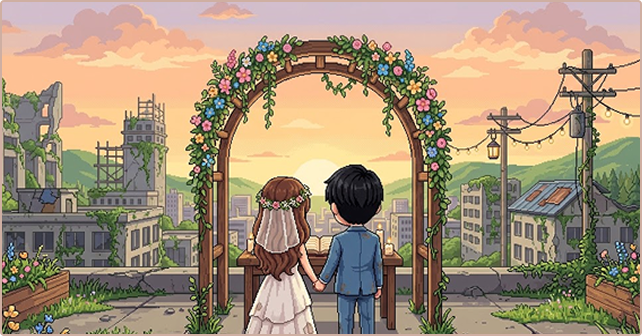
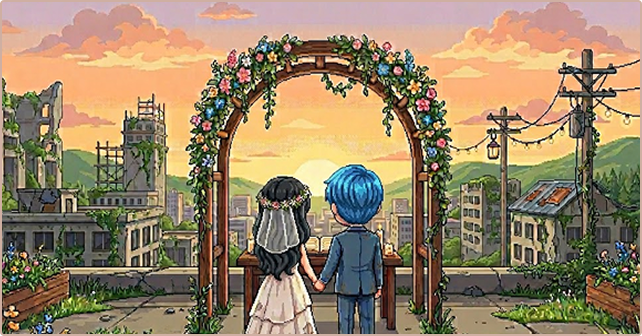
kapuya napls

diff --git a/src/menu/MenuButtonHandler.java b/src/menu/MenuButtonHandler.java
@@ -40,8 +40,7 @@ public class MenuButtonHandler implements ActionListener {
 
     @Override
     public void actionPerformed(ActionEvent e){
-        MusicManager.loadAllBGM();  // ← add this
-        MusicManager.loadAllSFX();
+
         MusicManager.playSFX(MusicManager.BTN_CLICK);
 
         String command = e.getActionCommand();
@@ -83,54 +82,56 @@ public class MenuButtonHandler implements ActionListener {
 
         if(command.equals("New Game")){
             gamePanel.removeAll();
-            gamePanel.setLayout(new BorderLayout());
+
             MusicManager.playBGM(MusicManager.BGM_STORYLINE);
+
+            gamePanel.setLayout(new BorderLayout());
 
             // ==========================================
             // 🛠 TEST MODE: 3 CHARACTERS BAD ENDING
             // ==========================================
-
-            Player testPlayer = new Player("Tester", 100, Gender.MALE);
-
-            // Keep the list empty at first
-            List<Character> testCharacters = new ArrayList<>();
-
-// 1. Initialize the characters
-            Yubie yubie = new Yubie();
-            Nathan nathan = new Nathan();
-            Adi adi = new Adi();
-
-// 2. Add them to the list ONLY ONCE
-            testCharacters.add(yubie);
-            testCharacters.add(nathan);
-            testCharacters.add(adi);
-
-// 3. Max out Turn-Off...
-            testPlayer.increaseTurnOff(yubie, 100);
-// ... etc
-            testPlayer.increaseTurnOff(adi, 100);
-            testPlayer.increaseTurnOff(nathan, 100);
-
-            // 4. Pass the player and the 3-character list to the ending panel
-            EndGamePanel testEnding = new EndGamePanel(testPlayer, testCharacters);
-            gamePanel.add(testEnding, BorderLayout.CENTER);
-            // ==========================================
-
-            gamePanel.revalidate();
-            gamePanel.repaint();
-        }
-
-//             ==========================================
-//             ORIGINAL CODE (Commented out for now)
-//             ==========================================
-//             Story story = new Story(gamePanel);
-//             gamePanel.add(story, BorderLayout.CENTER);
-//             story.requestFocusInWindow();
-////             ==========================================
+//
+//            Player testPlayer = new Player("Tester", 100, Gender.MALE);
+//
+//            // Keep the list empty at first
+//            List<Character> testCharacters = new ArrayList<>();
+//
+//// 1. Initialize the characters
+//            Yubie yubie = new Yubie();
+//            Nathan nathan = new Nathan();
+//            Adi adi = new Adi();
+//
+//// 2. Add them to the list ONLY ONCE
+//            testCharacters.add(yubie);
+//            testCharacters.add(nathan);
+//            testCharacters.add(adi);
+//
+//// 3. Max out Turn-Off...
+//            testPlayer.increaseTurnOn(nathan, 100);
+//// ... etc
+//            testPlayer.increaseTurnOff(yubie, 100);
+//            testPlayer.increaseTurnOff(adi, 100);
+//
+//            // 4. Pass the player and the 3-character list to the ending panel
+//            EndGamePanel testEnding = new EndGamePanel(testPlayer, testCharacters);
+//            gamePanel.add(testEnding, BorderLayout.CENTER);
+//            // ==========================================
 //
 //            gamePanel.revalidate();
 //            gamePanel.repaint();
 //        }
+
+//             ==========================================
+//             ORIGINAL CODE (Commented out for now)
+//             ==========================================
+             Story story = new Story(gamePanel);
+             gamePanel.add(story, BorderLayout.CENTER);
+             story.requestFocusInWindow();
+//             ==========================================
+
+            gamePanel.revalidate();
+            gamePanel.repaint();
+        }
 
         if(command.equals("Continue")){
             gamePanel.removeAll();

diff --git a/src/game/Story.java b/src/game/Story.java
@@ -165,7 +165,7 @@ public class Story extends JPanel {
     // TYPE TEXT
     // =========================
     private void typeText(String text, int delay) {
-        startTypewriterSound(); // ← start when typing begins
+//        startTypewriterSound(); // ← start when typing begins
         for (char c : text.toCharArray()) {
             SwingUtilities.invokeLater(() -> {
                 try {
@@ -175,11 +175,11 @@ public class Story extends JPanel {
             });
             try { Thread.sleep(delay); } catch (Exception ignored) {}
         }
-        stopTypewriterSound(); // ← stop when typing finishes
+//        stopTypewriterSound(); // ← stop when typing finishes
     }
 
     private void clearText() {
-        stopTypewriterSound(); // ← also stop on clear (safety net)
+//        stopTypewriterSound(); // ← also stop on clear (safety net)
         SwingUtilities.invokeLater(() -> dialogue.setText(""));
     }
 
@@ -191,12 +191,19 @@ public class Story extends JPanel {
     // INTRO STORY
     // =========================
     public void startIntro() {
-        SwingUtilities.invokeLater(() -> storyBoxPanel.setVisible(true));
-
+        SwingUtilities.invokeLater(() -> {
+            storyBoxPanel.setVisible(true);
+//            MusicManager.stopBGM();
+//            MusicManager.playBGM(MusicManager.BGM_STORYLINE);
+        });
         new Thread(() -> {
 
 
-            pause(1500);
+//            MusicManager.playBGM(MusicManager.BGM_STORYLINE);
+
+
+
+            pause(500);
             clearText();
 
             currentStoryImage = storylineImages[0]; fadeInScene();
@@ -237,7 +244,7 @@ public class Story extends JPanel {
 
             SwingUtilities.invokeLater(() -> storyBoxPanel.setVisible(false));
 
-            pause(2000);
+            pause(1500);
             startGenderSelection();
         }).start();
     }
@@ -535,8 +542,10 @@ public class Story extends JPanel {
     private void startGenderSelection() {
 
         SwingUtilities.invokeLater(() -> {
-            MusicManager.playBGM(MusicManager.BGM_GAME);
+            MusicManager.stopBGM();               // stop storyline BGM cleanly
+            MusicManager.playBGM(MusicManager.BGM_GAME); // then start game BGM
             removeAll();
+
             setLayout(null);
 
             final Dimension cardSize = new Dimension(350, 260);
@@ -850,13 +859,13 @@ public class Story extends JPanel {
 
 
 
-    private void startTypewriterSound() {
-        MusicManager.loopSFX(MusicManager.TYPEWRITER);
-    }
+//    private void startTypewriterSound() {
+//        MusicManager.loopSFX(MusicManager.TYPEWRITER);
+//    }
 
-    private void stopTypewriterSound() {
-        MusicManager.stopSFX(MusicManager.TYPEWRITER);
-    }
+//    private void stopTypewriterSound() {
+//        MusicManager.stopSFX(MusicManager.TYPEWRITER);
+//    }
 
 
     // =========================

diff --git a/src/game/EndGamePanel.java b/src/game/EndGamePanel.java
@@ -449,16 +449,42 @@ public class EndGamePanel extends JPanel {
             typeText("                        THANK YOU FOR PLAYING!", 50);
 
             sleep(4000);
+            sleep(4000);
             SwingUtilities.invokeLater(() -> {
-                Container parent = getParent();
-                if (parent != null && parent instanceof main.GamePanel) {
-                    main.GamePanel gamePanel = (main.GamePanel) parent;
-                    gamePanel.removeAll();
-                    gamePanel.setLayout(new BorderLayout());
-                    menu.CreditsPanel credits = new menu.CreditsPanel(gamePanel);
-                    gamePanel.add(credits, BorderLayout.CENTER);
-                    gamePanel.revalidate();
-                    gamePanel.repaint();
+                // Walk up the parent chain to find GamePanel
+                Container current = getParent();
+                main.GamePanel gamePanel = null;
+
+                while (current != null) {
+                    System.out.println("Checking parent: " + current.getClass().getName());
+                    if (current instanceof main.GamePanel) {
+                        gamePanel = (main.GamePanel) current;
+                        break;
+                    }
+                    current = current.getParent();
+                }
+
+                if (gamePanel != null) {
+                    final main.GamePanel gp = gamePanel;
+                    gp.removeAll();
+                    gp.setLayout(new BorderLayout());
+                    menu.CreditsPanel credits = new menu.CreditsPanel(gp);
+                    gp.add(credits, BorderLayout.CENTER);
+                    gp.revalidate();
+                    gp.repaint();
+                } else {
+                    // Fallback — try going through the JFrame directly
+                    JFrame frame = (JFrame) SwingUtilities.getWindowAncestor(EndGamePanel.this);
+                    if (frame != null) {
+                        frame.getContentPane().removeAll();
+                        main.GamePanel gp2 = new main.GamePanel("res/background/main-background.gif");
+                        gp2.setLayout(new BorderLayout());
+                        menu.CreditsPanel credits = new menu.CreditsPanel(gp2);
+                        gp2.add(credits, BorderLayout.CENTER);
+                        frame.setContentPane(gp2);
+                        frame.revalidate();
+                        frame.repaint();
+                    }
                 }
             });
         }).start();

diff --git a/src/Encounters/ZombieEncounterPanel.java b/src/Encounters/ZombieEncounterPanel.java
@@ -1155,6 +1155,9 @@ public class ZombieEncounterPanel extends JPanel {
                 MusicManager.playSFX(MusicManager.HP_RESTORE);
                 Weapon found = WeaponInventory.getRandomWeapon();
 
+                SwingUtilities.invokeLater(this::showVictoryOverlay);
+                sleep(2500);
+
                 if (level >= 4 && wi.getSize() >= 3) {
                     discardComplete = false;
                     SwingUtilities.invokeLater(() -> {
@@ -1322,6 +1325,54 @@ public class ZombieEncounterPanel extends JPanel {
             sleep(500); // show for 500ms
             SwingUtilities.invokeLater(() -> {
                 effectOverlay.setVisible(false);
+                repaint();
+            });
+        }).start();
+    }
+
+    private void showVictoryOverlay() {
+        JPanel vPanel = new JPanel(null) {
+            @Override
+            protected void paintComponent(Graphics g) {
+                super.paintComponent(g);
+                Graphics2D g2 = (Graphics2D) g.create();
+
+                // dim background
+                g2.setColor(new Color(0, 0, 0, 100));
+                g2.fillRect(0, 0, getWidth(), getHeight());
+
+                // "VICTORY" — 64pt Munro, white, centered
+                g2.setFont(GameFonts.MUNRO.deriveFont(Font.BOLD, 64f));
+                g2.setColor(Color.WHITE);
+                FontMetrics fm = g2.getFontMetrics();
+                String vic = "VICTORY";
+                int vx = (getWidth() - fm.stringWidth(vic)) / 2;
+                int vy = getHeight() / 2 - 10;
+                g2.drawString(vic, vx, vy);
+
+                // "+ 15 HP" — 22pt Munro, green, just below
+                g2.setFont(GameFonts.MUNRO.deriveFont(Font.PLAIN, 22f));
+                g2.setColor(new Color(100, 220, 100));
+                FontMetrics fm2 = g2.getFontMetrics();
+                String hp = "+ 15 HP";
+                int hx = (getWidth() - fm2.stringWidth(hp)) / 2;
+                int hy = vy + 48;
+                g2.drawString(hp, hx, hy);
+
+                g2.dispose();
+            }
+        };
+        vPanel.setOpaque(false);
+        vPanel.setBounds(0, 0, W, H);
+        add(vPanel);
+        setComponentZOrder(vPanel, 0);
+        repaint();
+
+        // auto-remove after 2.5 seconds
+        new Thread(() -> {
+            sleep(2500);
+            SwingUtilities.invokeLater(() -> {
+                remove(vPanel);
                 repaint();
             });
         }).start();

diff --git a/src/game/MusicManager.java b/src/game/MusicManager.java
@@ -23,7 +23,7 @@ public class MusicManager {
     private static final Map<String, Clip> sfxClips = new HashMap<>();
 
     // ── SFX Keys ─────────────────────────────────────────
-    public static final String TYPEWRITER        = "typewriter";
+//    public static final String TYPEWRITER        = "typewriter";
     public static final String STATS             = "status-add";
     public static final String DISCOVERY         = "discovery-item";
     public static final String BTN_CLICK         = "btn-click";
@@ -59,7 +59,7 @@ public class MusicManager {
 
     // ── Load all SFX ─────────────────────────────────────
     public static void loadAllSFX() {
-        loadSFX(TYPEWRITER,        "res/audio/effects/typewriter.wav");
+//        loadSFX(TYPEWRITER,        "res/audio/effects/typewriter.wav");
         loadSFX(STATS,             "res/audio/effects/status-add.wav");
         loadSFX(DISCOVERY,         "res/audio/effects/discovery-item.wav");
         loadSFX(BTN_CLICK,         "res/audio/effects/btn-click.wav");
@@ -123,9 +123,11 @@ public class MusicManager {
 
     // ── BGM: Stop ────────────────────────────────────────
     public static void stopBGM() {
-        if (bgmClip != null && bgmClip.isRunning()) {
+        if (bgmClip != null) { // 🛠 REMOVED "&& bgmClip.isRunning()"
             bgmClip.stop();
-            bgmClip.close();
+            bgmClip.flush(); // Clears the audio buffer
+            bgmClip.close(); // Completely destroys the clip
+            bgmClip = null;  // Resets it for the next song
         }
     }
 

diff --git a/src/game/ScenePanel.java b/src/game/ScenePanel.java
@@ -189,7 +189,7 @@ public class ScenePanel extends JPanel {
         new Thread(() -> {
 
             if (startLevel > 1 || startConversation > 1) {
-                MusicManager.playBGM(MusicManager.BGM_GAME); // resuming save
+//                MusicManager.playBGM(MusicManager.BGM_GAME); // resuming save
             }
 
 

diff --git a/src/menu/TitleScreen.java b/src/menu/TitleScreen.java
@@ -24,8 +24,9 @@ public class TitleScreen {
     public TitleScreen(Container con, GamePanel gamePanel){
 
         MusicManager.loadAllBGM();
-        MusicManager.stopAllSFX();
+        MusicManager.loadAllSFX();
         MusicManager.playBGM(MusicManager.BGM_GAME);
+
 
         con.setLayout(null);
 
